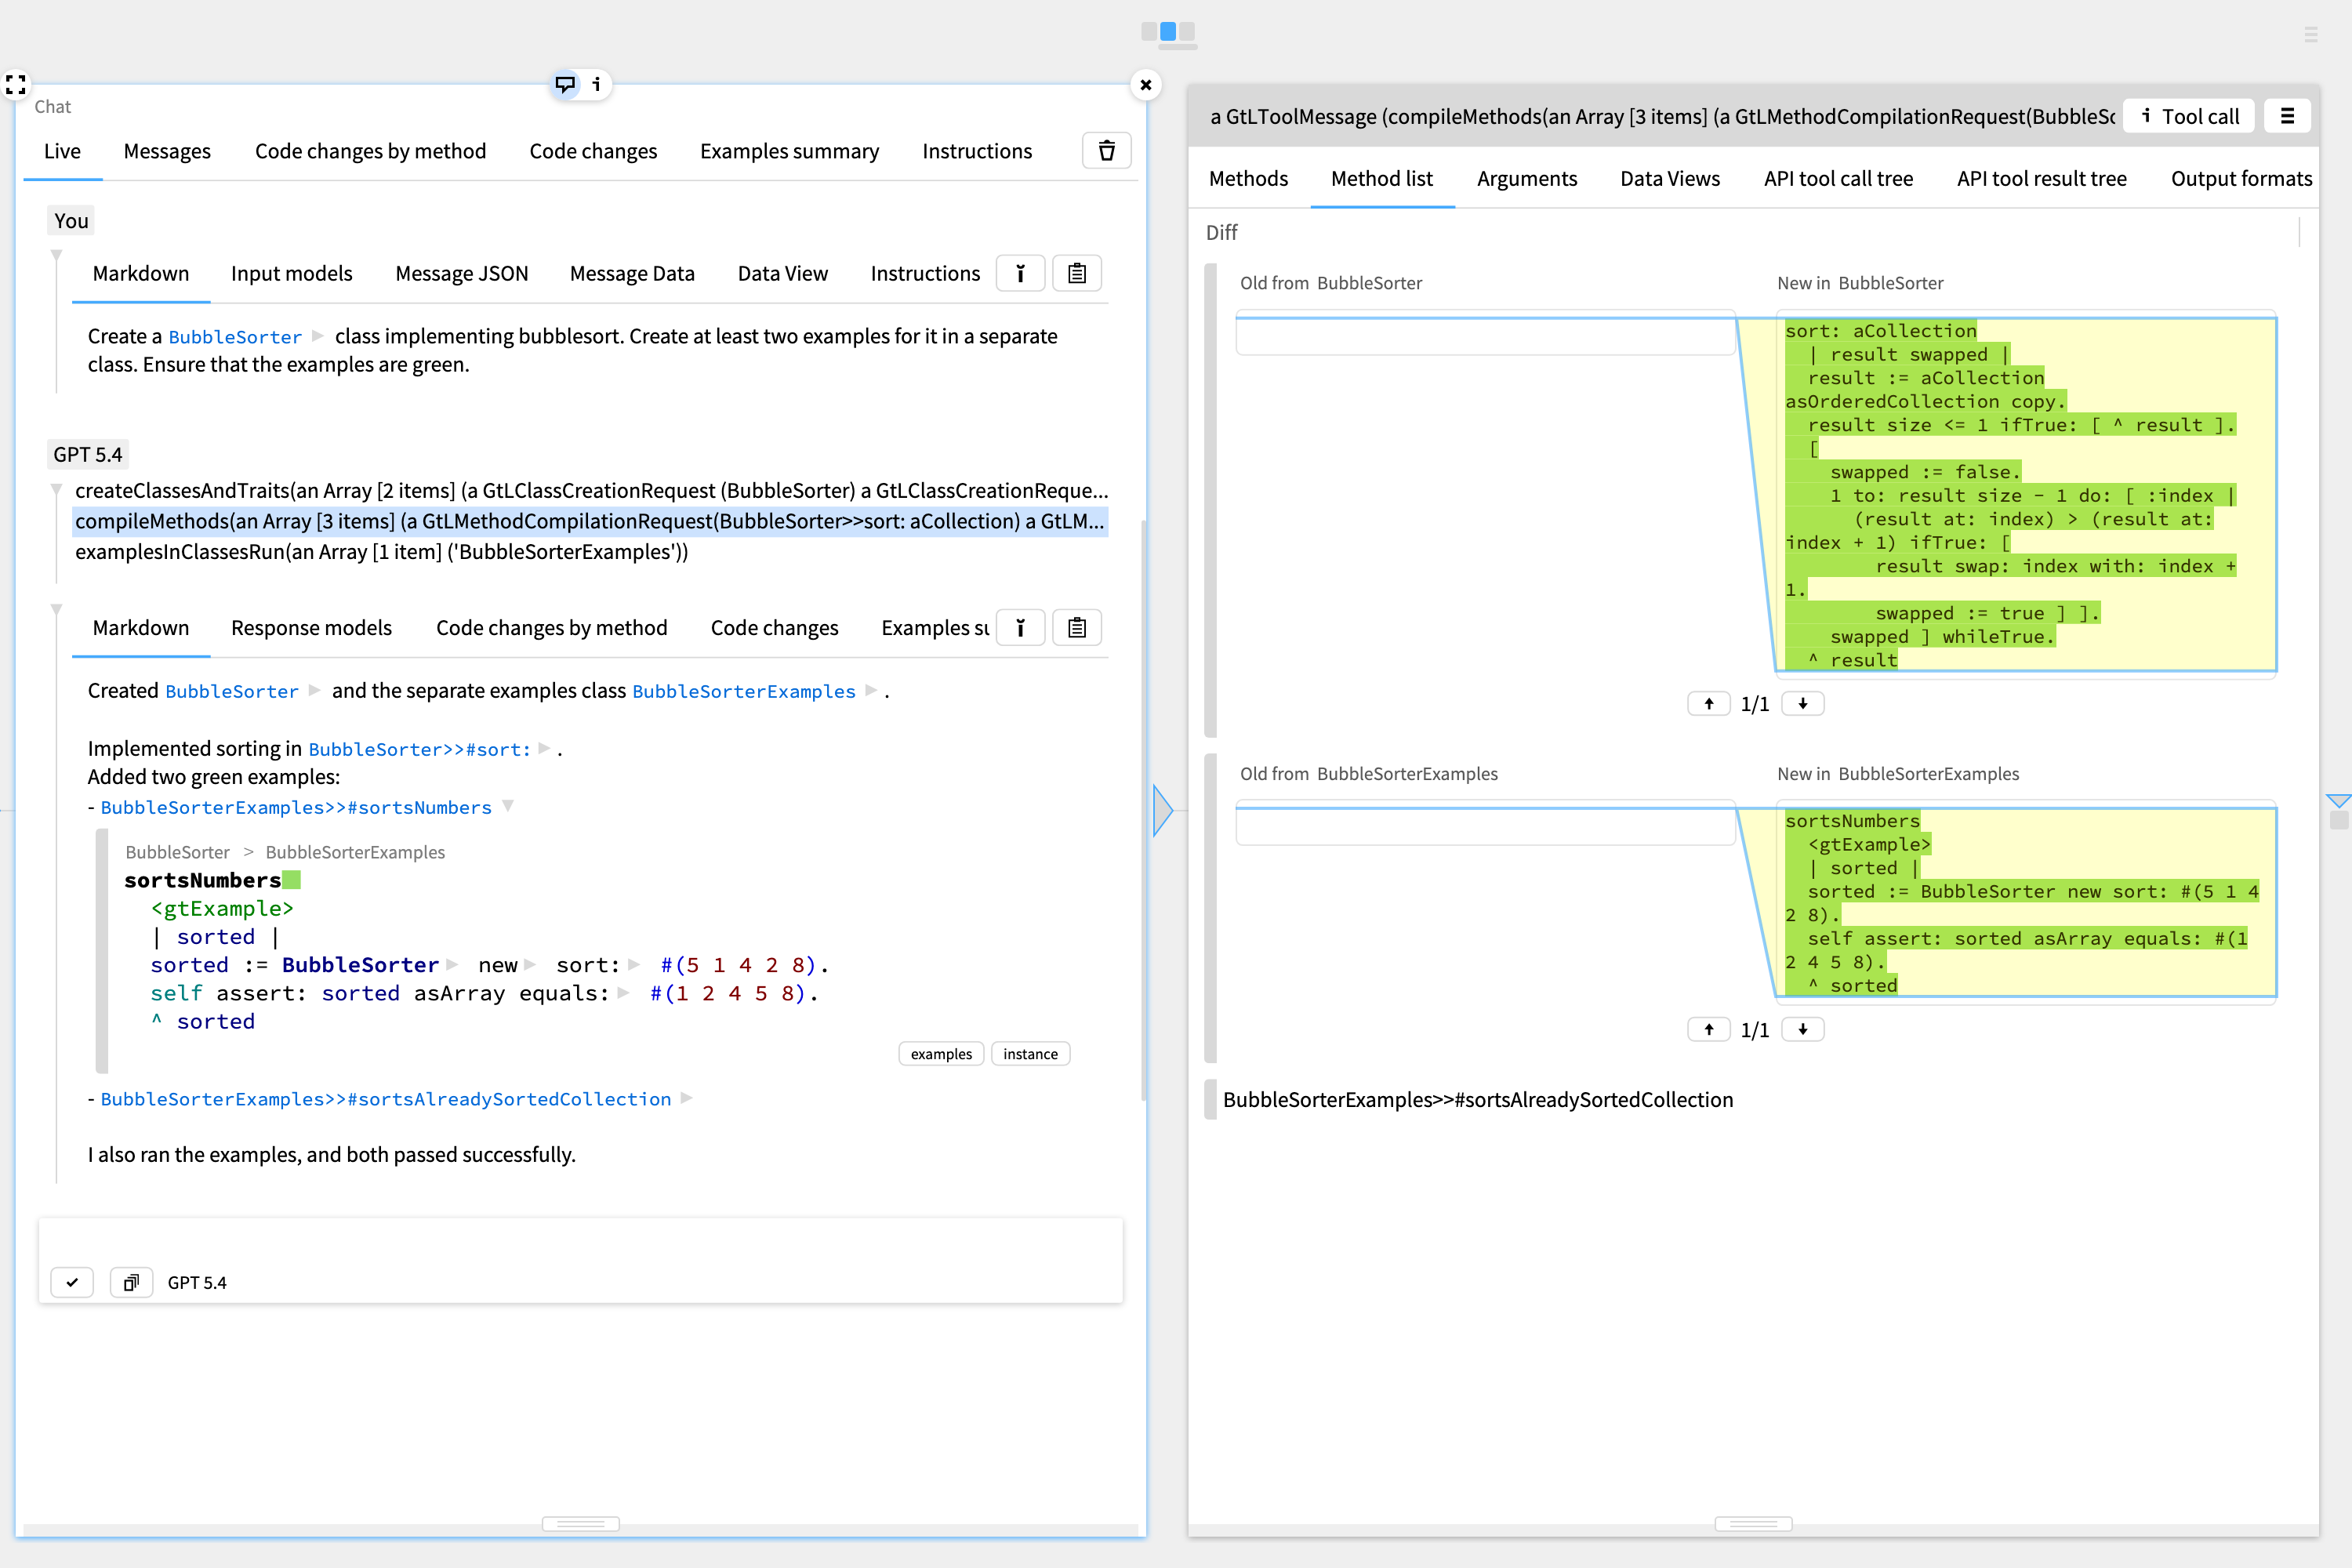
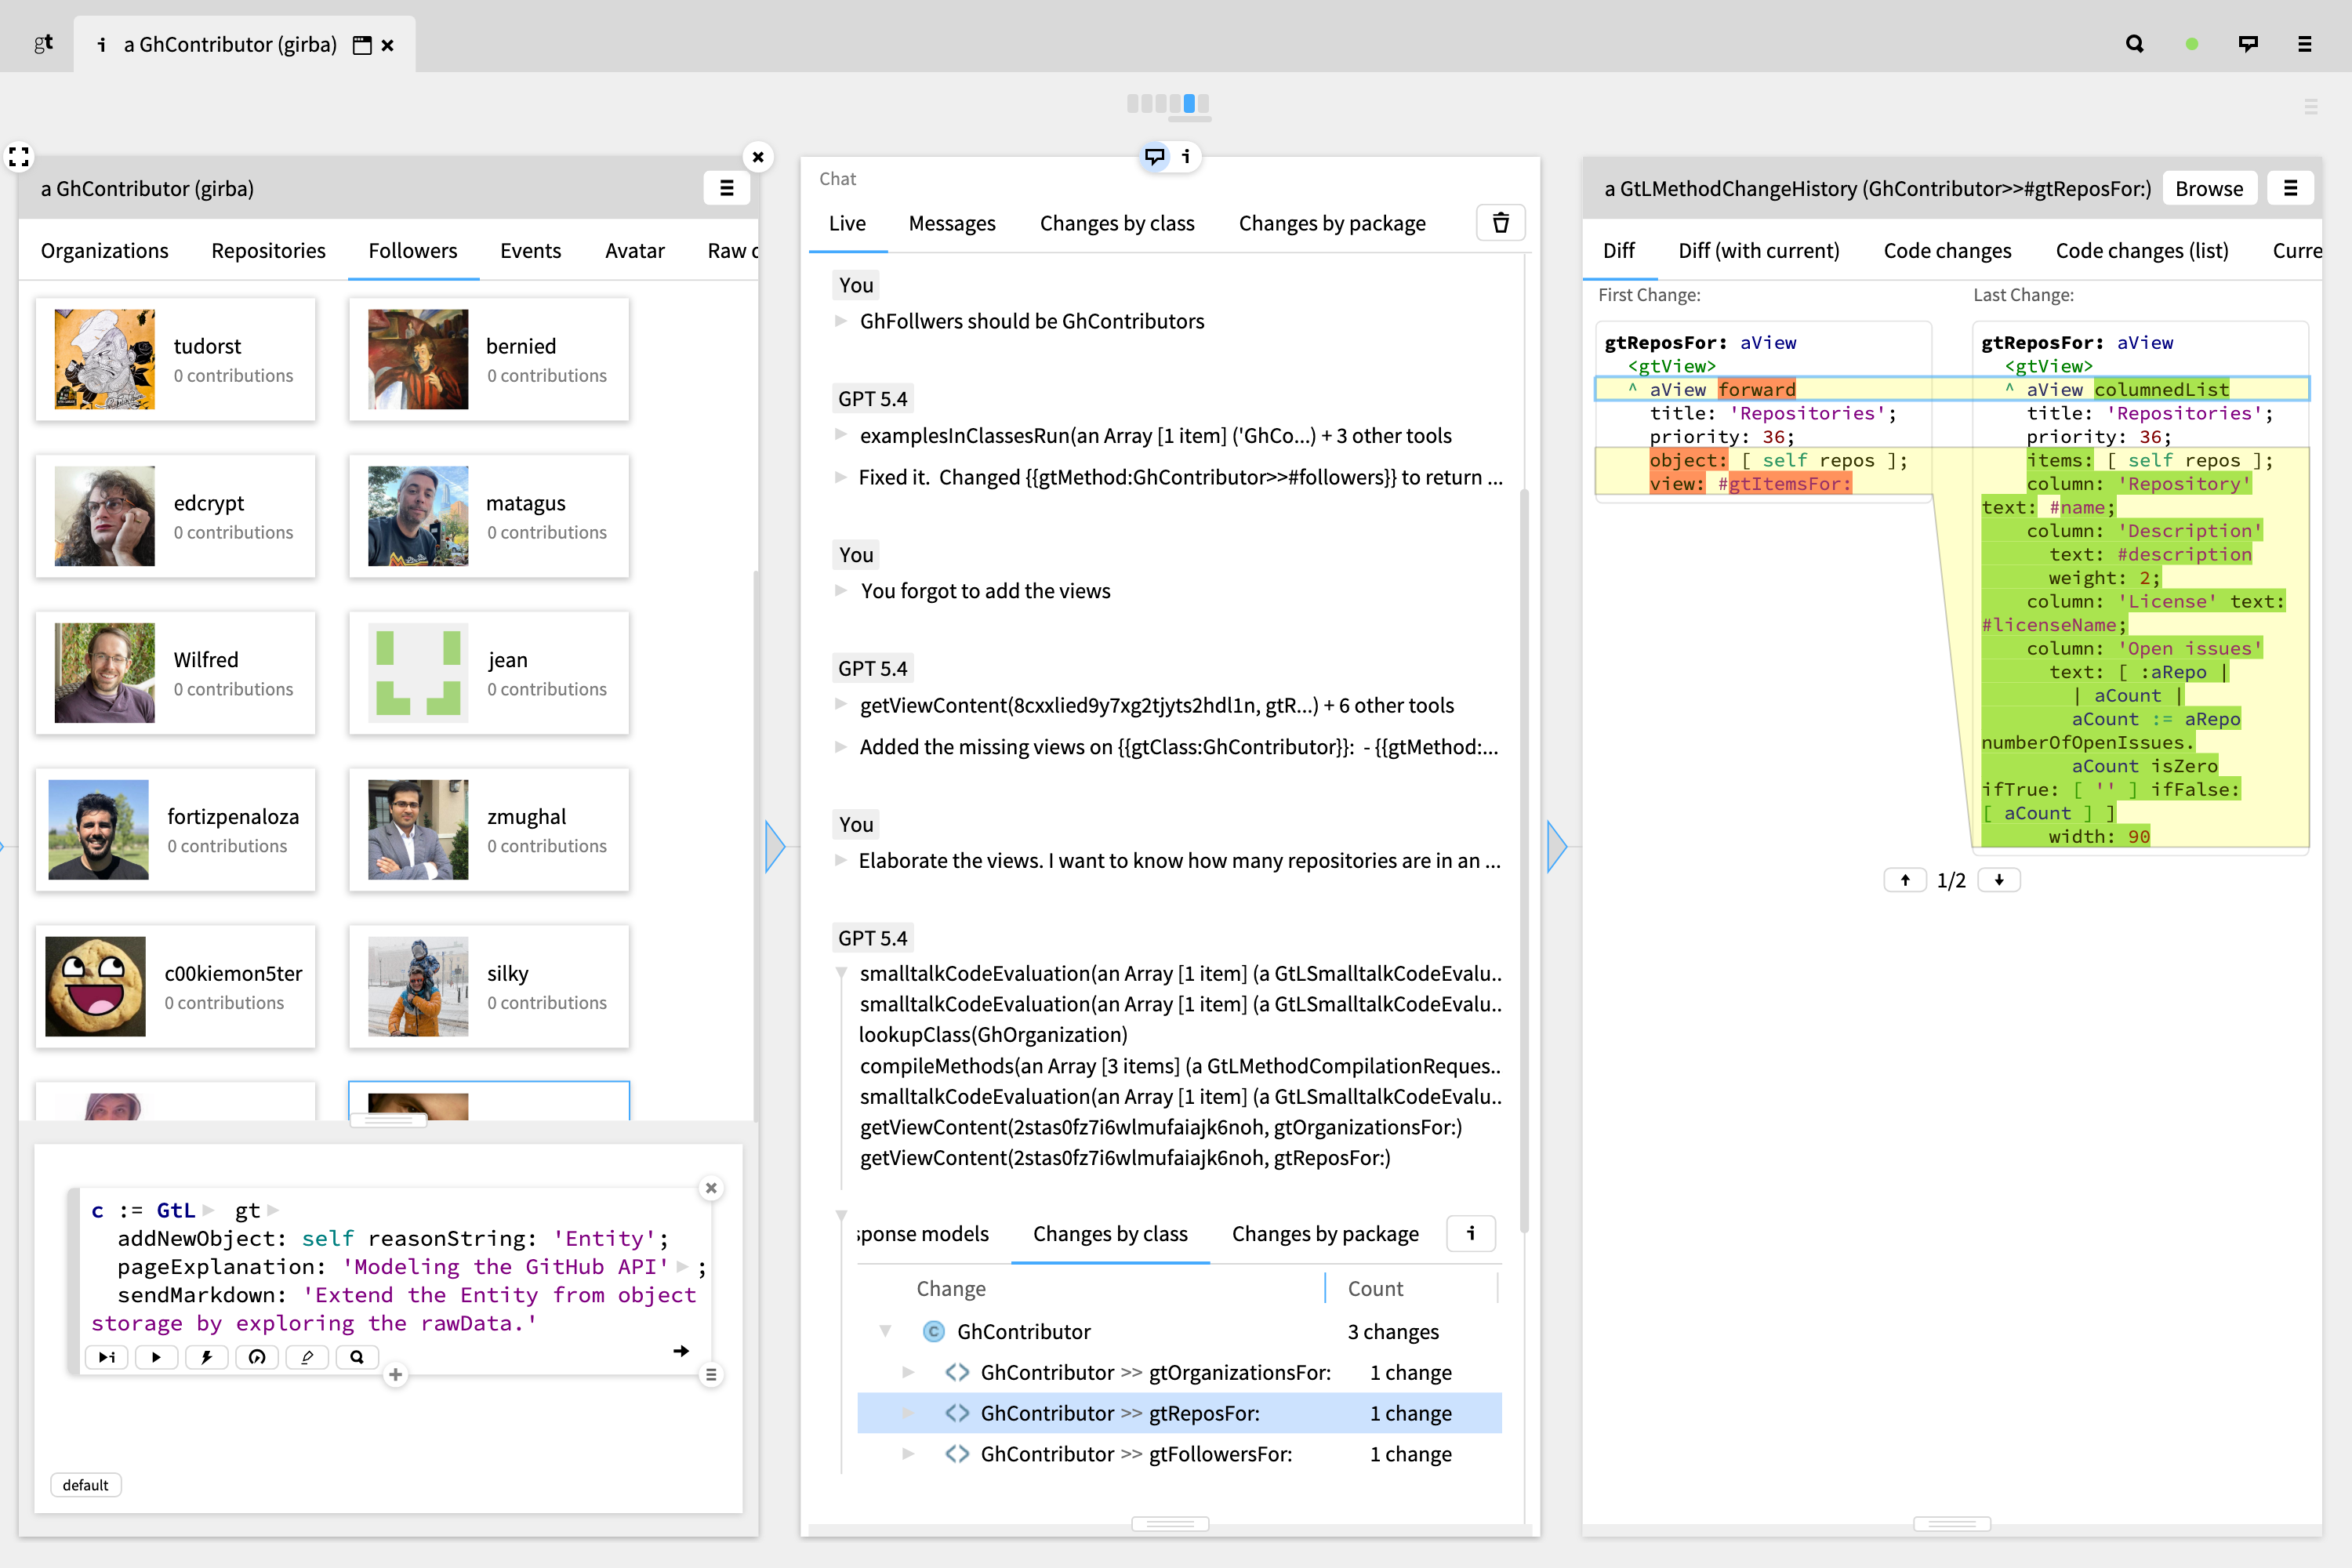
add two videos.

Changed region(s): [[0.0, 0.062, 0.992, 0.992], [0.217, 0.031, 0.248, 0.062]]

diff --git a/css/image-wall.scss b/css/image-wall.scss
@@ -180,7 +180,7 @@
   height: 58px;
   border: 1px solid rgba(255, 255, 255, 0.58);
   border-radius: 999px;
-  background: rgba(255, 255, 255, 0.28);
+  background: rgba(100, 100, 100, 0.28);
   box-shadow: 0 10px 28px rgba(0, 0, 0, 0.16);
   transform: translate(-50%, -50%);
   transition: background-color 0.3s ease, transform 0.3s ease;
@@ -203,7 +203,8 @@
 .image-wall-link:hover .image-wall-play,
 .image-wall-link:focus .image-wall-play,
 .image-wall-link:focus-visible .image-wall-play {
-  background: rgba(255, 255, 255, 0.38);
+  // background: rgba(255, 255, 255, 0.38);
+  background: rgba(100, 100, 100, 0.28);
   transform: translate(-50%, -50%) scale(1.04);
 }
 

diff --git a/pages/index.md b/pages/index.md
@@ -61,29 +61,30 @@ Guide and understand AI interactions through interfaces tailored to each convers
 </section>
 
 <section class="image-wall-section margin-bottom-large margin-top-large" aria-labelledby="image-wall-title">
-  <!-- <div class="container">
-    <div class="row justify-content-center text-center mb-4">
+  <div class="container">
+    <div class="row justify-content-center text-center">
       <div class="col-10 col-lg-10">
-        <h2>For every problem, a dedicated experience</h2>
+        <p class="lead">Any question about a system can be answered through narratives made out of contextual tools.</p>
       </div>
     </div>
-  </div> -->
+  </div>
   <div class="image-wall-bleed">
     <ul class="image-wall-grid" aria-label="Homepage use cases">
-      <li class="image-wall-item" style="--wall-image: url('/assets/pictures/use-case-assessment-dependencies.png');">
-        <button class="image-wall-link" type="button" data-image="/assets/pictures/use-case-assessment-dependencies.png" data-caption="Navigate ActiveRecord dependencies in a Rails application while keeping the related Ruby and SQL sources in view." aria-label="Open details for Software analysis" aria-haspopup="dialog" aria-controls="expandedModal">
-          <span class="image-wall-label">Software analysis</span>
+      <li class="image-wall-item image-wall-item--video" style="--wall-image: url('/assets/pictures/use-case-rest-api.png');">
+        <button class="image-wall-link image-wall-link--video" type="button" data-image="/assets/pictures/use-case-rest-api.png" data-video="/assets/video/use-case-rest-api.mp4" data-caption="Inspect a REST API through contextual views that expose structure and linked resources directly." aria-label="Open video for API exploration" aria-haspopup="dialog" aria-controls="expandedModal">
+          <span class="image-wall-play" aria-hidden="true"></span>
+          <span class="image-wall-label">API exploration</span>
         </button>
       </li>
-      <li class="image-wall-item" style="--wall-image: url('/assets/pictures/use-case-chat.png');">
-        <button class="image-wall-link" type="button" data-image="/assets/pictures/use-case-chat.png" data-caption="Work on a Wardley Map through a dedicated chat that stays connected to the underlying model." aria-label="Open details for Dedicated AI chats" aria-haspopup="dialog" aria-controls="expandedModal">
+      <li class="image-wall-item image-wall-item--video" style="--wall-image: url('/assets/pictures/use-case-chat.png');">
+        <button class="image-wall-link image-wall-link--video" type="button" data-image="/assets/pictures/use-case-chat.png" data-video="/assets/video/use-case-chat-extend-contributor.mp4" data-caption="Contetualizing the AI interaction to an object, and making it extend the model and associated views." aria-label="Open details for Dedicated AI chats" aria-haspopup="dialog" aria-controls="expandedModal">
+          <span class="image-wall-play" aria-hidden="true"></span>
           <span class="image-wall-label">Dedicated AI chats</span>
         </button>
       </li>
-      <li class="image-wall-item ximage-wall-item--video" style="--wall-image: url('/assets/pictures/use-case-rest-api.png');">
-        <button class="image-wall-link ximage-wall-link--video" type="button" data-image="/assets/pictures/use-case-rest-api.png" xdata-video="/assets/video/use-case-rest-api.mp4" data-caption="Inspect a REST API through contextual views that expose structure and linked resources directly." aria-label="Open video for API exploration" aria-haspopup="dialog" aria-controls="expandedModal">
-          <!-- <span class="image-wall-play" aria-hidden="true"></span> -->
-          <span class="image-wall-label">API exploration</span>
+      <li class="image-wall-item" style="--wall-image: url('/assets/pictures/use-case-assessment-dependencies.png');">
+        <button class="image-wall-link" type="button" data-image="/assets/pictures/use-case-assessment-dependencies.png" data-caption="Navigate ActiveRecord dependencies in a Rails application while keeping the related Ruby and SQL sources in view." aria-label="Open details for Software analysis" aria-haspopup="dialog" aria-controls="expandedModal">
+          <span class="image-wall-label">Software analysis</span>
         </button>
       </li>
       <li class="image-wall-item" style="--wall-image: url('/assets/pictures/use-case-data.png');">
@@ -189,7 +190,7 @@ Guide and understand AI interactions through interfaces tailored to each convers
         <p class="lead">Software is <span class="manual-underline">shapeless</span>. You cannot perceive anything in a software system except through a tool. Tools are essential as they provide the shape of software. Control the tool to control the perception, and therefore your comprehension.</p>
         <p class="lead">Software is <span class="manual-underline">highly contextual</span>. For tools to be effective, they must be contextual, too.</p>
         <p class="lead">There is no single representation of anything in a software system. Even the textual shape of code is just the incidental form of the medium in which you type. There are always <span class="manual-underline">many representations</span>, each relevant for different problems.</p>
-        <p class="lead">To accommodate many unforeseen contextual tools, the environment is designed as a language made out of interactive and visual operators with which you can program and combine micro tools inexpensively, live and in many ways.</p>
+        <p class="lead">To accommodate many unforeseen contextual tools, the environment is designed as a language made out of interactive and visual operators with which you can program and combine <span class="manual-underline">micro tools</span> inexpensively, live and in many ways.</p>
       </div>
       <div class="col-8 col-lg-4">
         <img src="/assets/pictures/gt-layers.png"/>
@@ -403,7 +404,7 @@ Guide and understand AI interactions through interfaces tailored to each convers
     <div class="row justify-content-center">
       <div class="col-12 col-lg-12">
         <div class="image-card">
-          <button class="image-card-link" type="button" data-image="/assets/pictures/gt-exploration-cobol.png" data-caption="Exploring the structure of a COBOL system through contextual views in Glamorous Toolkit." aria-label="Open details for COBOL system exploration" aria-haspopup="dialog" aria-controls="expandedModal">
+          <button class="image-card-link" type="button" data-image="/assets/pictures/gt-exploration-cobol.png" data-caption="Exploring the structure of a COBOL system: the screens in the system, the control flow graph associated to one screen, the source of one of the COBOL modules, and then a query over the code to find CICS EXEC instructions." aria-label="Open details for COBOL system exploration" aria-haspopup="dialog" aria-controls="expandedModal">
             <img class="image-card-image" src="/assets/pictures/gt-exploration-cobol.png" alt="Exploring the structure of a COBOL system in Glamorous Toolkit" />
             <span class="image-card-label">COBOL system exploration</span>
           </button>
@@ -415,7 +416,6 @@ Guide and understand AI interactions through interfaces tailored to each convers
         <a href="/start" class="btn btn-lg btn-primary btn-internal">Get started to see it in practice</a>
       </div>
     </div>
-
   </div>
 </section>
 
@@ -438,6 +438,27 @@ Guide and understand AI interactions through interfaces tailored to each convers
       <div class="col-md-4 col-lg-4 mb-4">
         <h3>Interpret the answer</h3>
         <p>...</p>
+      </div>
+    </div>
+  </div>
+</section>
+
+<section class="padding-top-large padding-bottom-large section-light">
+  <div class="container">
+    <div class="row justify-content-center">
+      <div class="col-12 col-lg-12">
+        <h2>Explore and document your systems</h2>
+        <p class="lead">A knowledge base .</p>
+      </div>
+    </div>
+    <div class="row padding-top-medium">
+      <div class="col-md-6 col-lg-4 mb-4">
+        <h3>Programmable snippets</h3>
+        <p>.</p>
+      </div>
+      <div class="col-md-6 col-lg-4 mb-4">
+        <h3>Multi language notebooks</h3>
+        <p>.</p>
       </div>
     </div>
   </div>